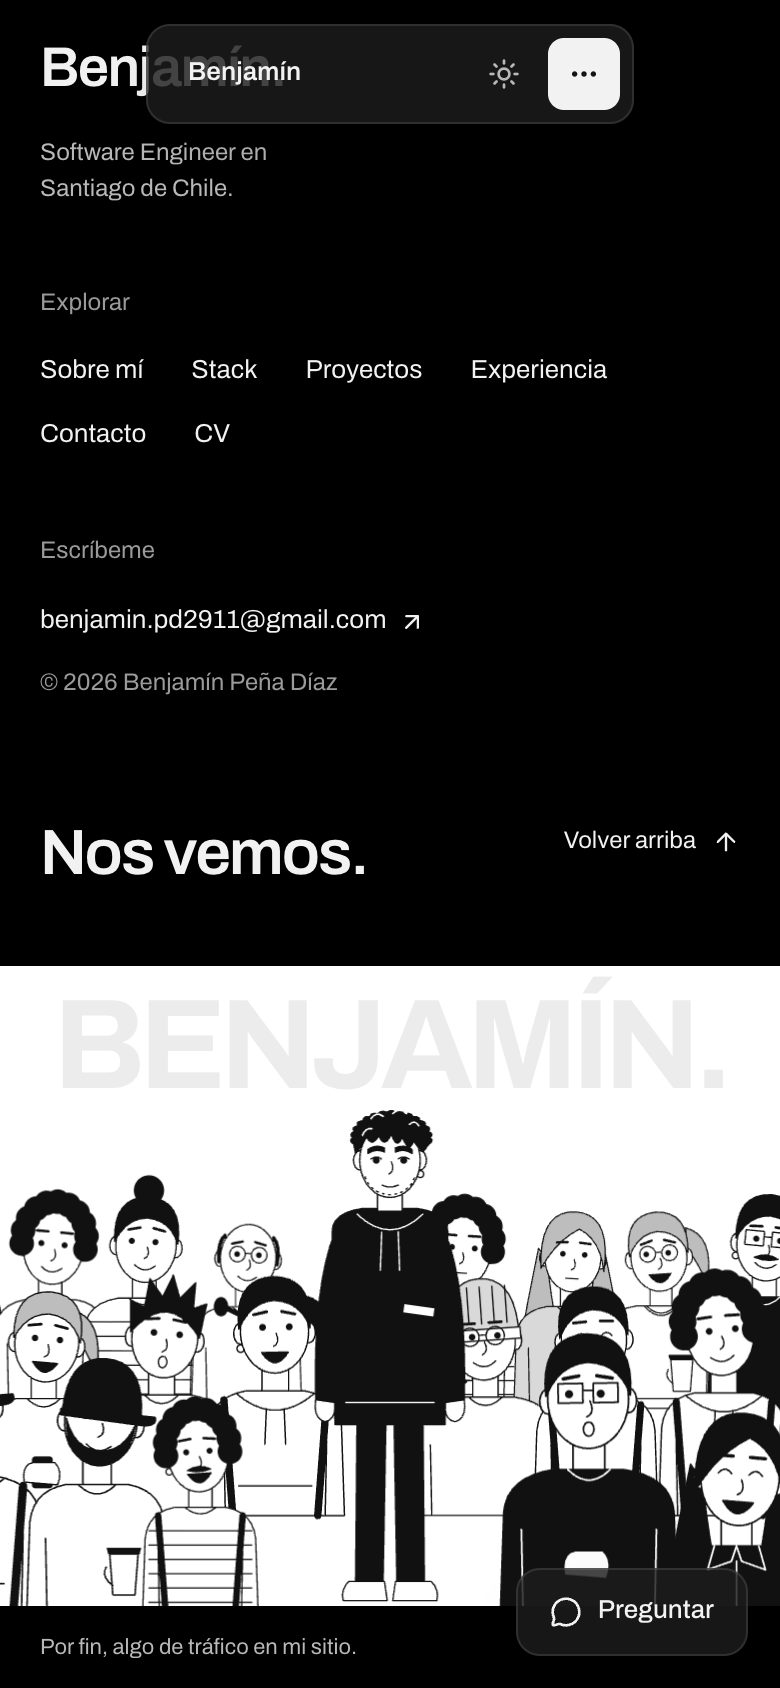
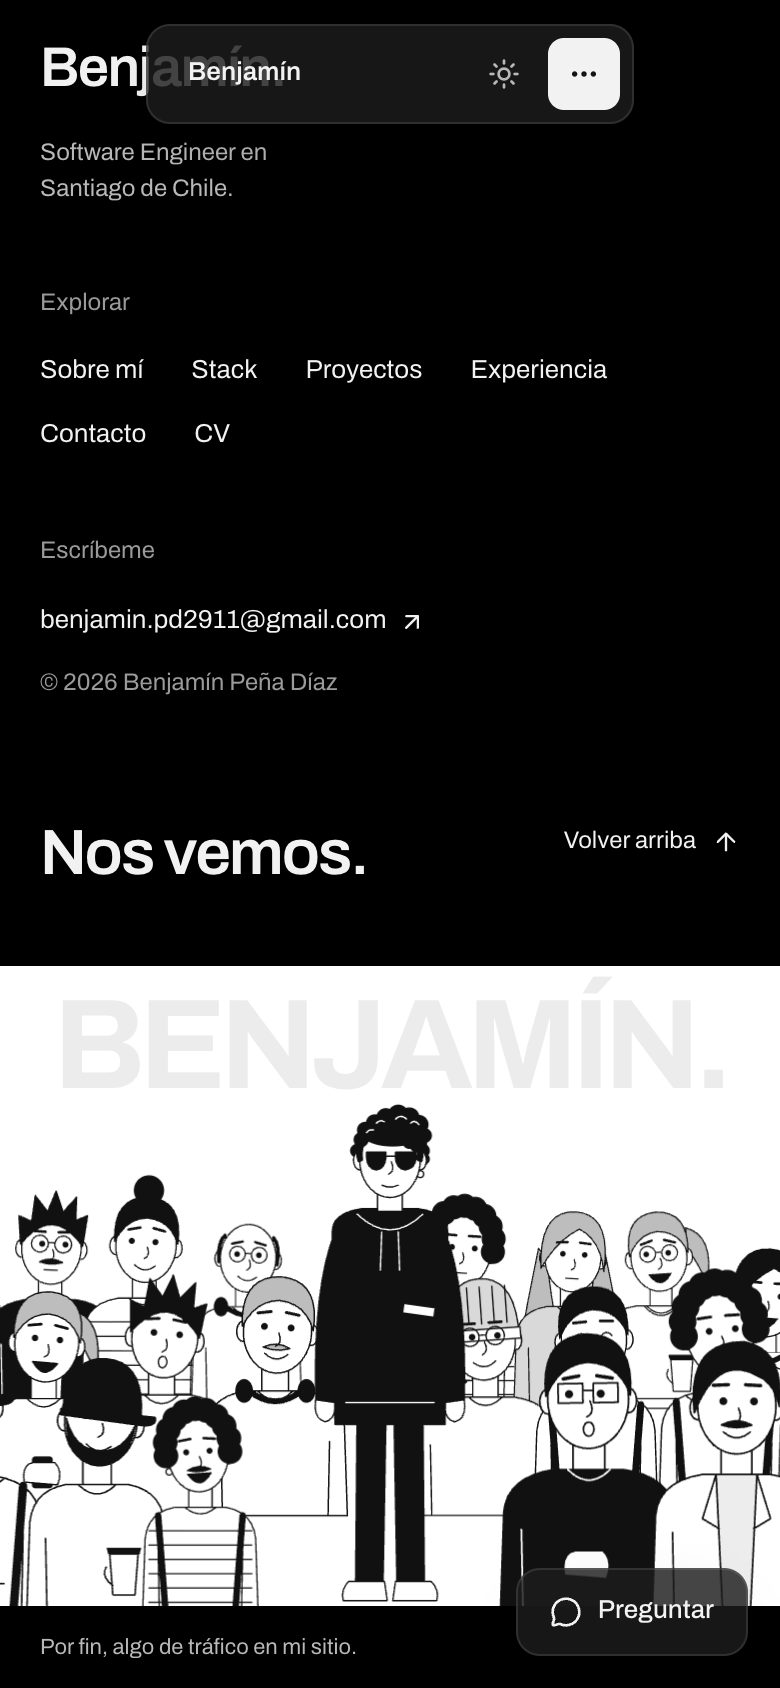
fix(v5): draw Benjamín with his curly hair and sunglasses
Redraws his figure from his own photos: dark curls with volume on top
falling to one side over the forehead, shorter sides, a curl behind the
ears, sunglasses back on and no stubble.

diff --git a/src/components/layout/Multitud.tsx b/src/components/layout/Multitud.tsx
@@ -9,7 +9,7 @@ import type { ReactNode } from "react";
  * Gente dibujada a línea, en blanco y negro, generada aquí mismo con una
  * semilla (no es la ilustración del reel: cada persona sale de combinar
  * peinados, ropa, caras y accesorios). Benjamín va al centro, de negro, de
- * cuerpo entero y con el pelo de la foto del CV.
+ * cuerpo entero, con sus rulos y lentes de sol.
  *
  * - Al entrar en pantalla, las filas suben desde abajo, de atrás hacia
  *   adelante.
@@ -240,30 +240,23 @@ function DibujoPersona({ p }: { p: Persona }) {
 }
 
 /**
- * Contorno del pelo de Benjamín: rizos alrededor de la coronilla (bultos sobre
- * una elipse) y un borde de flequillo con mechones en punta sobre la frente.
+ * El pelo de Benjamín, sacado de sus fotos: rulos oscuros con volumen arriba,
+ * algunos que caen sobre la frente hacia un lado, lados más cortos y rulos
+ * en la nuca. Son círculos sobre una base, en coordenadas de su cabeza.
  */
-const PELO_BENJAMIN = (() => {
-  const cx = 1;
-  const cy = -358;
-  const rx = 28;
-  const ry = 19;
-  const desde = (168 * Math.PI) / 180;
-  const hasta = (372 * Math.PI) / 180;
-  const n = 15;
-  const punto = (a: number, f = 1) => [cx + Math.cos(a) * rx * f, cy + Math.sin(a) * ry * f].map((v) => v.toFixed(1)).join(" ");
-  let d = `M ${punto(desde)}`;
-  for (let i = 0; i < n; i++) {
-    const a0 = desde + ((hasta - desde) * i) / n;
-    const a1 = desde + ((hasta - desde) * (i + 1)) / n;
-    d += ` Q ${punto((a0 + a1) / 2, 1.13)} ${punto(a1)}`;
-  }
-  // flequillo de derecha a izquierda, con puntas que caen sobre la frente
-  d += " L 24 -348 Q 20 -352 17 -356 Q 14 -346 9 -359 Q 5 -349 1 -361 Q -4 -350 -8 -360 Q -13 -351 -17 -359 Q -21 -351 -25 -347 Z";
-  return d;
-})();
+const RULOS_ARRIBA: [number, number, number][] = [
+  [-21, -357, 5], [-18, -364, 5.5], [-11, -369, 6], [-3, -373, 6.5], [6, -375, 7], [14, -373, 7],
+  [21, -368, 6.5], [25, -360, 5], [-6, -366, 5], [4, -368, 5.5], [13, -365, 5.5], [20, -361, 5],
+];
+const RULOS_FRENTE: [number, number, number][] = [
+  [9, -358, 4.5], [14, -355, 4.2], [19, -352, 3.8], [4, -360, 3.8], [23, -354, 3.5],
+];
+// Rulos de la nuca: asoman apenas detrás de las orejas.
+const RULOS_NUCA: [number, number, number][] = [
+  [-24, -349, 4.5], [24, -349, 4.5], [25, -343, 3.5],
+];
 
-/** Benjamín de cuerpo entero: polerón y pantalón negros, pelo como en la foto del CV. */
+/** Benjamín de cuerpo entero: polerón y pantalón negros, rulos y lentes de sol. */
 function DibujoBenjamin() {
   return (
     <g strokeLinecap="round" strokeLinejoin="round" stroke={TINTA}>
@@ -282,21 +275,28 @@ function DibujoBenjamin() {
         <rect x={10} y={-236} width={22} height={6} fill={PAPEL} stroke="none" transform="rotate(8 21 -233)" />
         {/* cuello y cabeza */}
         <path d="M -9 -320 L -9 -305 L 9 -305 L 9 -320" fill={PAPEL} />
+        {/* rulos de la nuca, detrás de la cara */}
+        {RULOS_NUCA.map(([x, y, r]) => (
+          <circle key={`n${x}${y}`} cx={x} cy={y} r={r} fill={TINTA} />
+        ))}
         <ellipse cx={-22} cy={-342} rx={4.5} ry={7} fill={PAPEL} />
         <ellipse cx={22} cy={-342} rx={4.5} ry={7} fill={PAPEL} />
         <circle cx={22} cy={-332} r={2.5} fill="none" />
         <ellipse cx={0} cy={-342} rx={22} ry={27} fill={PAPEL} />
-        {/* pelo como en la foto del CV: ondulado y desordenado arriba, con
-            mechones que caen sobre la frente y los lados cortos */}
-        <path d={PELO_BENJAMIN} fill={TINTA} />
-        <path d="M -14 -372 q 4 -6 9 -2 M 2 -376 q 5 -5 10 0 M 14 -368 q 4 -4 7 1 M -20 -360 q 2 -6 7 -5" fill="none" stroke={PAPEL} strokeWidth={1.2} />
-        {/* cejas gruesas y ojos, como en la foto del CV */}
-        <path d="M -16 -350 Q -10 -354 -4 -351 L -4 -348 Q -10 -351 -16 -347 Z M 4 -351 Q 10 -354 16 -350 L 16 -347 Q 10 -351 4 -348 Z" fill={TINTA} />
-        <path d="M -14 -343 Q -10 -346 -6 -343 M 6 -343 Q 10 -346 14 -343" fill="none" />
-        <circle cx={-10} cy={-342} r={2} fill={TINTA} />
-        <circle cx={10} cy={-342} r={2} fill={TINTA} />
-        {/* barba de pocos días */}
-        <path d="M -18 -330 Q -14 -318 0 -317 Q 14 -318 18 -330" fill="none" stroke={TINTA} strokeDasharray="1.5 3" />
+        {/* lados más cortos, pegados a la cabeza */}
+        <path d="M -23 -354 Q -25 -346 -23 -341 L -20 -342 Q -21 -348 -19 -354 Z M 23 -354 Q 25 -346 23 -341 L 20 -342 Q 21 -348 19 -354 Z" fill={TINTA} />
+        {/* volumen de rulos arriba y los que caen sobre la frente */}
+        <ellipse cx={2} cy={-362} rx={23} ry={10} fill={TINTA} stroke="none" />
+        {RULOS_ARRIBA.map(([x, y, r]) => (
+          <circle key={`a${x}${y}`} cx={x} cy={y} r={r} fill={TINTA} />
+        ))}
+        {RULOS_FRENTE.map(([x, y, r]) => (
+          <circle key={`f${x}${y}`} cx={x} cy={y} r={r} fill={TINTA} />
+        ))}
+        <path d="M 21 -350 q 4 3 1 7 q -3 1 -3 -2" fill="none" />
+        <path d="M -10 -369 q 3 -3 6 -1 M 4 -372 q 4 -4 8 0 M 15 -369 q 3 -3 6 1 M -17 -362 q 2 -3 5 -2" fill="none" stroke={PAPEL} strokeWidth={1.1} />
+        {/* lentes de sol, como en su foto */}
+        <path d="M -17 -348 L -3 -348 Q -2 -336 -10 -335 Q -18 -336 -17 -348 Z M 4 -348 L 19 -348 Q 20 -336 11 -335 Q 3 -336 4 -348 Z M -3 -345 L 4 -345 M 19 -346 L 23 -344" fill={TINTA} />
         <path d="M 1 -341 Q 4 -334 -1 -332" fill="none" />
         <path d="M -6 -324 Q 0 -321 6 -324" fill="none" />
       </g>

diff --git a/src/i18n/diccionario.ts b/src/i18n/diccionario.ts
@@ -122,7 +122,7 @@ const diccionario = {
       ciudad: {
         trafico: "Por fin, algo de tráfico en mi sitio.",
         descripcion:
-          "Ilustración a línea de una multitud de personas que va cambiando, con Benjamín al centro, vestido de negro.",
+          "Ilustración a línea de una multitud de personas que va cambiando, con Benjamín al centro, vestido de negro y con lentes de sol.",
       },
     },
     preguntas: {
@@ -257,7 +257,7 @@ const diccionario = {
       ciudad: {
         trafico: "Finally, some traffic on my website.",
         descripcion:
-          "Line illustration of a changing crowd of people, with Benjamín in the middle, dressed in black.",
+          "Line illustration of a changing crowd of people, with Benjamín in the middle, dressed in black and wearing sunglasses.",
       },
     },
     preguntas: {

diff --git a/README.md b/README.md
@@ -32,7 +32,7 @@ pero es propia: no se copió la ilustración del reel (es arte de otra persona).
 8. **Pie:** banda negra con «Nos vemos.» y, abajo, la banda blanca con
    «BENJAMÍN.» gigante y una **multitud ilustrada a línea**, generada en SVG
    combinando peinados, ropa, caras y accesorios. Benjamín está al centro, de
-   negro, de cuerpo entero y con el pelo de la foto del CV. Las filas suben al entrar,
+   negro, de cuerpo entero, con sus rulos y lentes de sol. Las filas suben al entrar,
    cada 2,4 s alguien se va y llega otra persona, al apuntar dan un saltito y un
    clic cambia a quien tocas. Cierra con «Por fin, algo de tráfico en mi sitio.».
 9. **Preguntar:** el «Ask AI» del reel, sin modelo detrás. Responde con los
